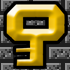
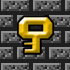
Update

diff --git a/C02/src/dkeep/gui/DungeonGraphics.java b/C02/src/dkeep/gui/DungeonGraphics.java
@@ -22,33 +22,18 @@ import dkeep.logic.Level.state;
 public class DungeonGraphics extends JPanel implements KeyListener {
 
 	//all used images
-	private BufferedImage hero_s;
-	private BufferedImage hero_d;
-	private BufferedImage hero_w;
-	private BufferedImage hero_a;
-	private BufferedImage hero_key;
+	private BufferedImage mario;
+	private BufferedImage mario_key;
 	private BufferedImage hero_weapon;
-	private BufferedImage guard_a;
-	private BufferedImage guard_d;
-	private BufferedImage guard_s;
-	private BufferedImage guard_w;
+	private BufferedImage guard;
 	private BufferedImage guard_sleep;
-	private BufferedImage wall_vert;
-	private BufferedImage wall_hor;
-	private BufferedImage wall_corner1;
-	private BufferedImage wall_corner2;
-	private BufferedImage wall_corner3;
-	private BufferedImage wall_corner4;
+	private BufferedImage wall;
 	private BufferedImage lever;
 	private BufferedImage key;
-	private BufferedImage door_closed;
-	private BufferedImage door_open;
-	private BufferedImage ogre_w;
-	private BufferedImage ogre_s;
-	private BufferedImage ogre_a;
-	private BufferedImage ogre_d;
-	private BufferedImage ogre_attack;
-	private BufferedImage ogre_stunned;
+	private BufferedImage door;
+	private BufferedImage bowser;
+	private BufferedImage bowser_fire;
+	private BufferedImage bowser_stunned;
 	private BufferedImage floor;
 	
 	private Level currentLevel;
@@ -72,17 +57,17 @@ public class DungeonGraphics extends JPanel implements KeyListener {
 	public void loadImages() throws IOException
 	{
 	
-			this.guard_s = ImageIO.read(new File("images/goomba_guard.png"));
-			this.hero_s = ImageIO.read(new File("images/mario_d.png"));
+			this.guard = ImageIO.read(new File("images/goomba_guard.png"));
+			this.mario = ImageIO.read(new File("images/mario_d.png"));
 			this.key = ImageIO.read(new File("images/key.png"));
-			this.door_closed = ImageIO.read(new File("images/plant.png"));
-			this.ogre_s = ImageIO.read(new File("images/bowser_s.png"));
-			this.wall_hor = ImageIO.read(new File("images/wall.png"));
+			this.door = ImageIO.read(new File("images/plant.png"));
+			this.bowser = ImageIO.read(new File("images/bowser_s.png"));
+			this.wall = ImageIO.read(new File("images/wall.png"));
 			this.guard_sleep = ImageIO.read(new File("images/goomba_sleeping.png"));
-			this.ogre_attack = ImageIO.read(new File("images/bowser_fire.png"));
-			this.hero_key = ImageIO.read(new File("images/mario_s.png"));
+			this.bowser_fire = ImageIO.read(new File("images/bowser_fire.png"));
+			//this.mario_key = ImageIO.read(new File("images/mario_key_s.png"));
 			this.hero_weapon = ImageIO.read(new File("images/mario_d.png"));
-			this.ogre_stunned = ImageIO.read(new File("images/bowser_stunned.png"));
+			this.bowser_stunned = ImageIO.read(new File("images/bowser_stunned.png"));
 			this.floor =  ImageIO.read(new File("images/floor.png"));
 
 	}
@@ -99,20 +84,20 @@ public class DungeonGraphics extends JPanel implements KeyListener {
 				
 				if(maptoprint[i][a] == 'X')
 				{
-					g.drawImage(wall_hor, a*70, i*70, this);
+					g.drawImage(wall, a*70, i*70, this);
 				}else if (maptoprint[i][a] == 'H')
 				{
-					g.drawImage(hero_s, a*70,i*70, this);
+					g.drawImage(mario, a*70,i*70, this);
 				}
 				else if(maptoprint[i][a] == 'I')
 				{
-					g.drawImage(door_closed,a* 70,i*70, this);
+					g.drawImage(door,a* 70,i*70, this);
 				}else if (maptoprint[i][a] == 'G')
 				{
-					g.drawImage(guard_s,a*70,i*70,this);
+					g.drawImage(guard,a*70,i*70,this);
 				}else if (maptoprint[i][a] == 'O' || maptoprint[i][a] == '$')
 				{
-					g.drawImage(ogre_s, a*70,i*70, this);
+					g.drawImage(bowser, a*70,i*70, this);
 				}else if (maptoprint[i][a] == 'k')
 				{
 					g.drawImage(key, a*70, i*70,this);
@@ -121,16 +106,16 @@ public class DungeonGraphics extends JPanel implements KeyListener {
 					g.drawImage(guard_sleep, a*70, i*70,this);
 				}else if (maptoprint[i][a] == '*')
 				{
-					g.drawImage(ogre_attack, a*70, i*70,this);
+					g.drawImage(bowser_fire, a*70, i*70,this);
 				}else if (maptoprint[i][a] == 'K')
 				{
-					g.drawImage(hero_key, a*70, i*70,this);
+					g.drawImage(mario, a*70, i*70,this);
 				}else if (maptoprint[i][a] == 'A')
 				{
 					g.drawImage(hero_weapon, a*70, i*70,this);
 				}else if (maptoprint[i][a] == '8')
 				{
-					g.drawImage(ogre_stunned, a*70, i*70,this);
+					g.drawImage(bowser_stunned, a*70, i*70,this);
 				}else 
 					g.drawImage(floor, a*70, i*70, this);
 			}
@@ -174,15 +159,44 @@ public class DungeonGraphics extends JPanel implements KeyListener {
 		switch(e.getKeyCode())
 		{
 			case KeyEvent.VK_LEFT:
+			try {
+				mario = ImageIO.read(new File("images/mario_a.png"));
+			} catch (IOException e1) {
+		
+				e1.printStackTrace();
+			}
 				updateMove('a');
 				break;
 			case KeyEvent.VK_RIGHT:
+			try {
+				
+				if(currentLevel.getCurrentMap().getKey().getFound())
+				mario = ImageIO.read(new File("images/mario_key_d.png"));
+				else mario = ImageIO.read(new File("images/mario_d.png"));
+			} catch (IOException e1) {
+				// TODO Auto-generated catch block
+				e1.printStackTrace();
+			}
 				updateMove('d');
 				break;
 			case KeyEvent.VK_UP:
+			try {
+				mario = ImageIO.read(new File("images/mario_w.png"));
+			} catch (IOException e1) {
+				// TODO Auto-generated catch block
+				e1.printStackTrace();
+			}
 				updateMove('w');
 				break;
 			case KeyEvent.VK_DOWN:
+			try {
+				if(currentLevel.getCurrentMap().getKey().getFound())
+					mario = ImageIO.read(new File("images/mario_key_s.png"));
+					else mario = ImageIO.read(new File("images/mario_s.png"));
+			} catch (IOException e1) {
+				// TODO Auto-generated catch block
+				e1.printStackTrace();
+			}
 				updateMove('s');
 				break;
 				

diff --git a/C02/src/dkeep/logic/Level.java b/C02/src/dkeep/logic/Level.java
@@ -276,6 +276,11 @@ public void printMap() {
 		return gameState;
 					
 	}
+	
+	public  Map getCurrentMap()
+	{
+		return this.currentmap;
+	}
 
 	
 	
